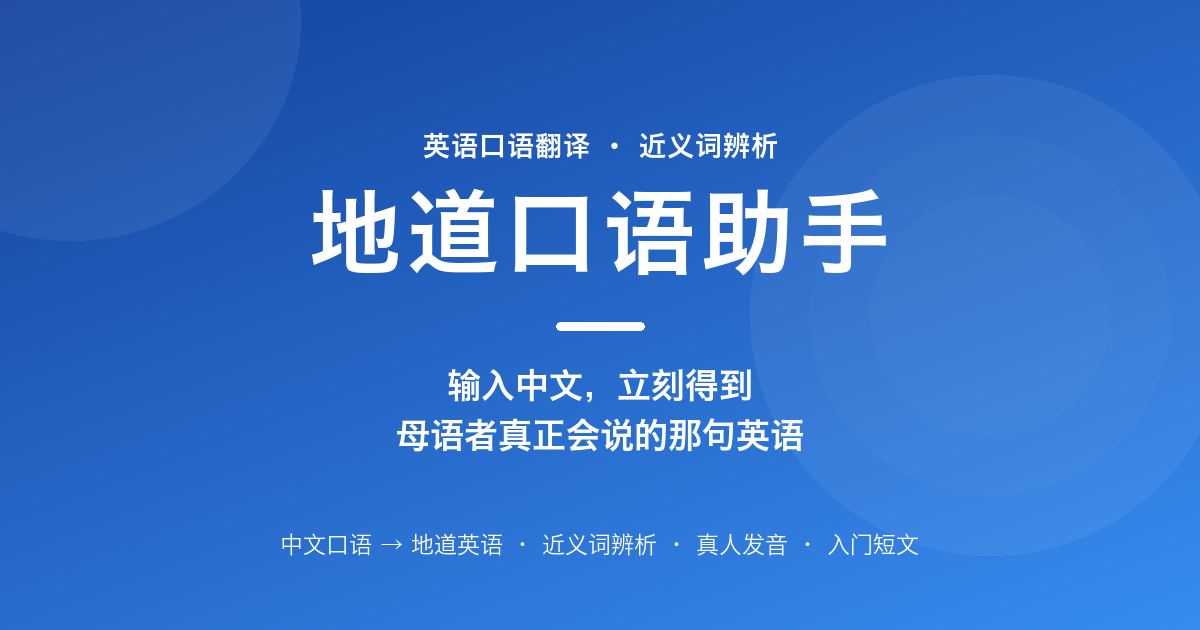
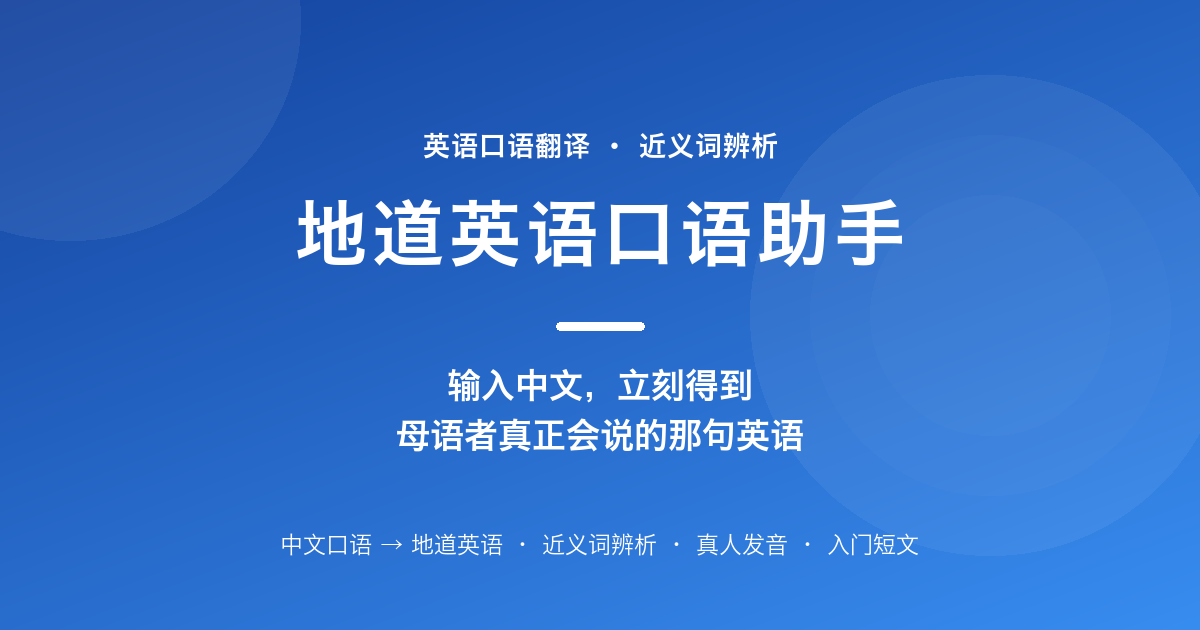
品牌名对齐微信后台实改名：地道口语助手 → 地道英语口语助手
后台名称已由「地道口语助手」改为「地道英语口语助手」（简称「英语助手」，
且名称剩余修改次数为 0 → 今年不可再改），代码随之对齐。

- app.js / index.html / content-pages.js / server.js 共 15 处对外文案对齐
- 长图与 og: 图里的品牌字同步换名
- og-image 主标题从 6 字变 8 字后会超出「中心 630 宽」方裁安全带
  （8×98≈778 > 630），故 gen-og.py 改为**按宽度反解字号**（92 → 72px）
  并加越界断言，以后改名不必再手调

Changed region(s): [[0.2467, 0.3016, 0.7708, 0.4524]]

diff --git a/public/app.js b/public/app.js
@@ -1,4 +1,4 @@
-// app.js — 地道口语助手 前端交互
+// app.js — 地道英语口语助手 前端交互
 // 三个 tab：首页（口语翻译 / 近义词查询）· 阅读 · 收藏
 const $ = (s) => document.querySelector(s);
 const stateInput = $('#state-input');
@@ -778,14 +778,14 @@ function renderReading() {
 // 不分口语/近义、不分有无结果 —— 此前按场景分两句，线上实拍过「模式与文案对不上」，索性收敛为一句。
 // 不判断任何状态：无需区分 mode / currentKind，也就不会再踩 currentKind 初值写死 'synonym' 那个坑。
 function shareTitle() {
-  return '地道英语，就用地道口语助手';
+  return '地道英语，就用地道英语口语助手';
 }
 
 // 分享长图用的「内容标题」，只在近义长图上渲染（口语长图不渲染标题）。
 // 与分享标题解耦：长图是海报，标题带具体词才有上下文。行为与改造前逐字一致。
 function resultCaption() {
   const d = currentData;
-  if (!d) return '地道口语助手：近义词辨析';
+  if (!d) return '地道英语口语助手：近义词辨析';
   let words = [];
   if (d.mode === 'multi') words = (d.words || []).map((w) => w.word);
   else {
@@ -795,9 +795,9 @@ function resultCaption() {
   }
   words = words.filter(Boolean);
   if (!words.length) words = [(currentInput || '').trim()].filter(Boolean);
-  if (!words.length) return '地道口语助手：近义词辨析';
+  if (!words.length) return '地道英语口语助手：近义词辨析';
   const core = words.length <= 2 ? words.join('、') : (words.slice(0, 2).join('、') + '等');
-  return '地道口语助手：' + core + '的差异';
+  return '地道英语口语助手：' + core + '的差异';
 }
 
 function buildShareUrl() {
@@ -809,7 +809,7 @@ function buildShareUrl() {
 }
 
 // 圆角 logo：纯渐变方块，不落单字。
-// 原先方块里写死白色「词」字（「单词助手」时期字形），与紧邻的「地道口语助手」自相矛盾；
+// 原先方块里写死白色「词」字（「单词助手」时期字形），与紧邻的「地道英语口语助手」自相矛盾；
 // 而口语/近义两个场景共用同一块品牌位，任何单字都偏袒一边，故留白。
 function drawLogo(ctx, x, y, size) {
   const r = size * 0.25;
@@ -848,7 +848,7 @@ function drawShareCard(ctx, W, H) {
   ctx.fillStyle = '#ffffff'; ctx.fillRect(0, 0, W, H);
   ctx.fillStyle = '#1E63D0'; ctx.fillRect(0, 0, W, 80);
   drawLogo(ctx, 20, 20, 40);
-  ctx.fillStyle = '#ffffff'; ctx.font = 'bold 19px sans-serif'; ctx.fillText('地道口语助手', 70, 42);
+  ctx.fillStyle = '#ffffff'; ctx.font = 'bold 19px sans-serif'; ctx.fillText('地道英语口语助手', 70, 42);
   ctx.fillStyle = 'rgba(255,255,255,0.85)'; ctx.font = '11px sans-serif';
   ctx.fillText(currentKind === 'colloquial' ? '英语口语翻译' : '英语近义词辨析', 70, 60);
 
@@ -914,7 +914,7 @@ function drawShareCard(ctx, W, H) {
     }
   }
   ctx.fillStyle = '#9aa7bd'; ctx.font = '11px sans-serif';
-  ctx.fillText('微信搜索「地道口语助手」体验完整辨析', 20, H - 18);
+  ctx.fillText('微信搜索「地道英语口语助手」体验完整辨析', 20, H - 18);
 }
 
 function openShareSheet() {

diff --git a/content-pages.js b/content-pages.js
@@ -22,7 +22,7 @@ import { READING_POOL } from './reading-pool.js';
 const __dirname = dirname(fileURLToPath(import.meta.url));
 const PUBLIC_DIR = join(__dirname, 'public');
 
-const SITE_NAME = '地道口语助手';
+const SITE_NAME = '地道英语口语助手';
 const SITE_SLOGAN = '英语口语翻译 · 近义词辨析';
 
 // ══════════ 工具 ══════════
@@ -398,7 +398,7 @@ ${body}
 export function renderIndexHead(origin) {
   const title = `${SITE_NAME} · 英语口语翻译与近义词辨析`;
   const description =
-    '地道口语助手：输入中文，立刻得到母语者真正会说的那句地道英语 —— ' +
+    '地道英语口语助手：输入中文，立刻得到母语者真正会说的那句地道英语 —— ' +
     '支持口语翻译、近义词辨析、真人发音、入门英语短文与收藏复习。附常用中文口语的地道英文说法。';
   const canonical = `${origin}/`;
   const ogImage = `${origin}/og-image.png`;
@@ -417,7 +417,7 @@ export function renderIndexHead(origin) {
   };
 
   // 站点名标注的权威来源：内容页各自带 WebSite 实体，首页也必须带一份，
-  // 否则搜索引擎没有统一信号可用来在结果标题上方标注「地道口语助手」。
+  // 否则搜索引擎没有统一信号可用来在结果标题上方标注「地道英语口语助手」。
   const siteLd = {
     '@context': 'https://schema.org',
     '@type': 'WebSite',

diff --git a/public/index.html b/public/index.html
@@ -3,7 +3,7 @@
 <head>
   <meta charset="UTF-8" />
   <meta name="viewport" content="width=device-width, initial-scale=1.0, maximum-scale=1.0, user-scalable=no" />
-  <title>地道口语助手 · 英语口语翻译与近义词辨析</title>
+  <title>地道英语口语助手 · 英语口语翻译与近义词辨析</title>
   <!--SEO_HEAD-->
   <link rel="stylesheet" href="/styles.css" />
 </head>
@@ -13,7 +13,7 @@
       <div class="back-btn hidden" id="backBtn">&#8592;</div>
       <!-- 首页此前没有任何 h1：爬虫不执行 JS，正文全靠 app.js 注入，
            等于拿不到「这个页面讲什么」。用 h1 同时包住品牌名与功能词。 -->
-      <h1 class="appname" id="appname">地道口语助手<span class="subtitle">英语口语翻译 · 近义词辨析</span></h1>
+      <h1 class="appname" id="appname">地道英语口语助手<span class="subtitle">英语口语翻译 · 近义词辨析</span></h1>
       <div class="help-btn" id="helpBtn">?</div>
     </header>
     <div class="help-bubble hidden" id="helpBubble">生活和工作里的话，怎么写才像母语者说的。</div>

diff --git a/server.js b/server.js
@@ -336,16 +336,16 @@ function notFoundPage() {
 <head>
 <meta charset="UTF-8" />
 <meta name="viewport" content="width=device-width, initial-scale=1.0" />
-<title>页面不存在 · 地道口语助手</title>
+<title>页面不存在 · 地道英语口语助手</title>
 <meta name="robots" content="noindex" />
 <link rel="stylesheet" href="/content.css" />
 </head>
 <body>
-<header class="hd"><a class="hd-brand" href="/">地道口语助手</a></header>
+<header class="hd"><a class="hd-brand" href="/">地道英语口语助手</a></header>
 <main class="wrap">
   <h1>没有找到这个页面</h1>
   <p class="lead">链接可能写错了，或者这条内容已经被移除。</p>
-  <a class="cta" href="/">回到地道口语助手首页</a>
+  <a class="cta" href="/">回到地道英语口语助手首页</a>
 </main>
 </body>
 </html>

diff --git a/tools/gen-og.py b/tools/gen-og.py
@@ -29,11 +29,18 @@ FONT_BOLD = '/System/Library/Fonts/Hiragino Sans GB.ttc'
 FONT_BOLD_IDX = 2
 FONT_REGULAR_IDX = 0
 
-BRAND = '地道口语助手'
+BRAND = '地道英语口语助手'
 SUB = '英语口语翻译 · 近义词辨析'
 LINE1 = '输入中文，立刻得到'
 LINE2 = '母语者真正会说的那句英语'
 FOOT = '中文口语 → 地道英语 · 近义词辨析 · 真人发音 · 入门短文'
+
+# 主标题必须完整落在中心 630×630 内（见文件头的方裁说明）。
+# 2026-09-18 品牌名从 6 字加到 8 字后，92px 的字号会宽出方裁范围（8×98≈778 > 630），
+# 所以改成**按宽度反解字号**：以后改名不必再手调这个数字。
+SAFE_W = 620          # 630 内留 5px 余量
+TITLE_SIZE_MAX = 92
+TITLE_TRACK_RATIO = 6 / 92   # 原设计的字距/字号比（92px 配 6px 字距）
 
 # ── 背景：对角渐变（左上深蓝 → 右下亮蓝），比纯色更有纵深感 ──
 c1 = np.array([20.0, 66.0, 158.0])    # #14429E
@@ -52,7 +59,6 @@ img = Image.alpha_composite(img, deco)
 
 draw = ImageDraw.Draw(img)
 f_label = ImageFont.truetype(FONT_BOLD, 27, index=FONT_BOLD_IDX)
-f_title = ImageFont.truetype(FONT_BOLD, 92, index=FONT_BOLD_IDX)
 f_body = ImageFont.truetype(FONT_BOLD, 34, index=FONT_BOLD_IDX)
 f_foot = ImageFont.truetype(FONT_BOLD, 23, index=FONT_REGULAR_IDX)
 
@@ -66,10 +72,26 @@ def tracked_center(d, y, text, font, fill, tracking=0):
     for ch in text:
         d.text((x, y), ch, font=font, fill=fill)
         x += d.textlength(ch, font=font) + tracking
+    return total
 
 
-tracked_center(draw, 132, SUB, f_label, (255, 255, 255, 190), tracking=1)     # 顶部标签
-tracked_center(draw, 186, BRAND, f_title, (255, 255, 255, 255), tracking=6)   # 主标题
+def fit_title(d, text, max_w=SAFE_W):
+    """按宽度反解主标题字号：返回 (font, tracking, 实测宽度)。装不下就报错，不静默裁字。"""
+    for size in range(TITLE_SIZE_MAX, 47, -2):
+        f = ImageFont.truetype(FONT_BOLD, size, index=FONT_BOLD_IDX)
+        tr = max(1, round(size * TITLE_TRACK_RATIO))
+        total = sum(d.textlength(ch, font=f) for ch in text) + tr * (len(text) - 1)
+        if total <= max_w:
+            return f, tr, total
+    raise SystemExit(f'品牌名「{text}」太长，装不进中心 {SAFE_W}px 宽')
+
+
+f_title, title_track, title_w = fit_title(draw, BRAND)
+# 字号变了仍要让标题的光学中心停在原位（原设计 92px、顶边 186）
+title_y = 186 + (TITLE_SIZE_MAX - f_title.size) / 2
+
+tracked_center(draw, 132, SUB, f_label, (255, 255, 255, 190), tracking=1)          # 顶部标签
+tracked_center(draw, title_y, BRAND, f_title, (255, 255, 255, 255), tracking=title_track)  # 主标题
 
 # 主标题下的短装饰线（呼应 logo 的渐变方块）
 draw.rounded_rectangle([CX - 44, 322, CX + 44, 330], radius=4, fill=(255, 255, 255, 235))
@@ -82,3 +104,9 @@ OUT.parent.mkdir(parents=True, exist_ok=True)
 img.convert('RGB').save(OUT, 'PNG', optimize=True)
 print(f'已生成 {OUT}')
 print('尺寸', Image.open(OUT).size, '体积', OUT.stat().st_size, '字节')
+
+# 自检：主标题左右边界必须落在中心 630 宽带内，否则方裁会切掉品牌名的头尾
+L, R = CX - title_w / 2, CX + title_w / 2
+assert L >= CX - 315 and R <= CX + 315, f'主标题越界：x∈[{L:.0f},{R:.0f}]'
+print(f'主标题「{BRAND}」字号 {f_title.size}px 字距 {title_track}px 宽 {title_w:.0f}px '
+      f'→ x∈[{L:.0f},{R:.0f}]，方裁安全带 x∈[{CX - 315:.0f},{CX + 315:.0f}] ✓')
